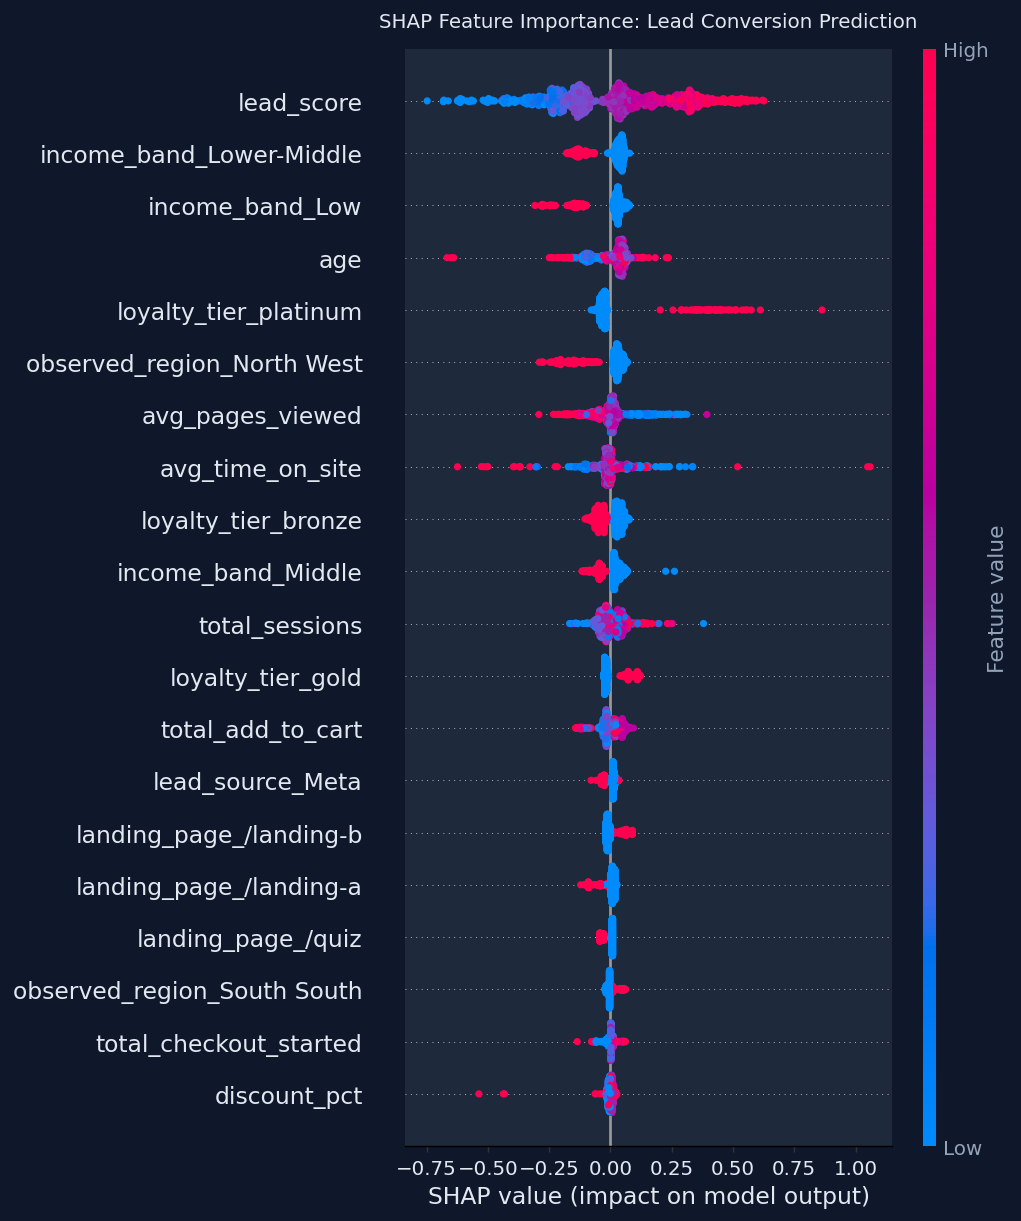
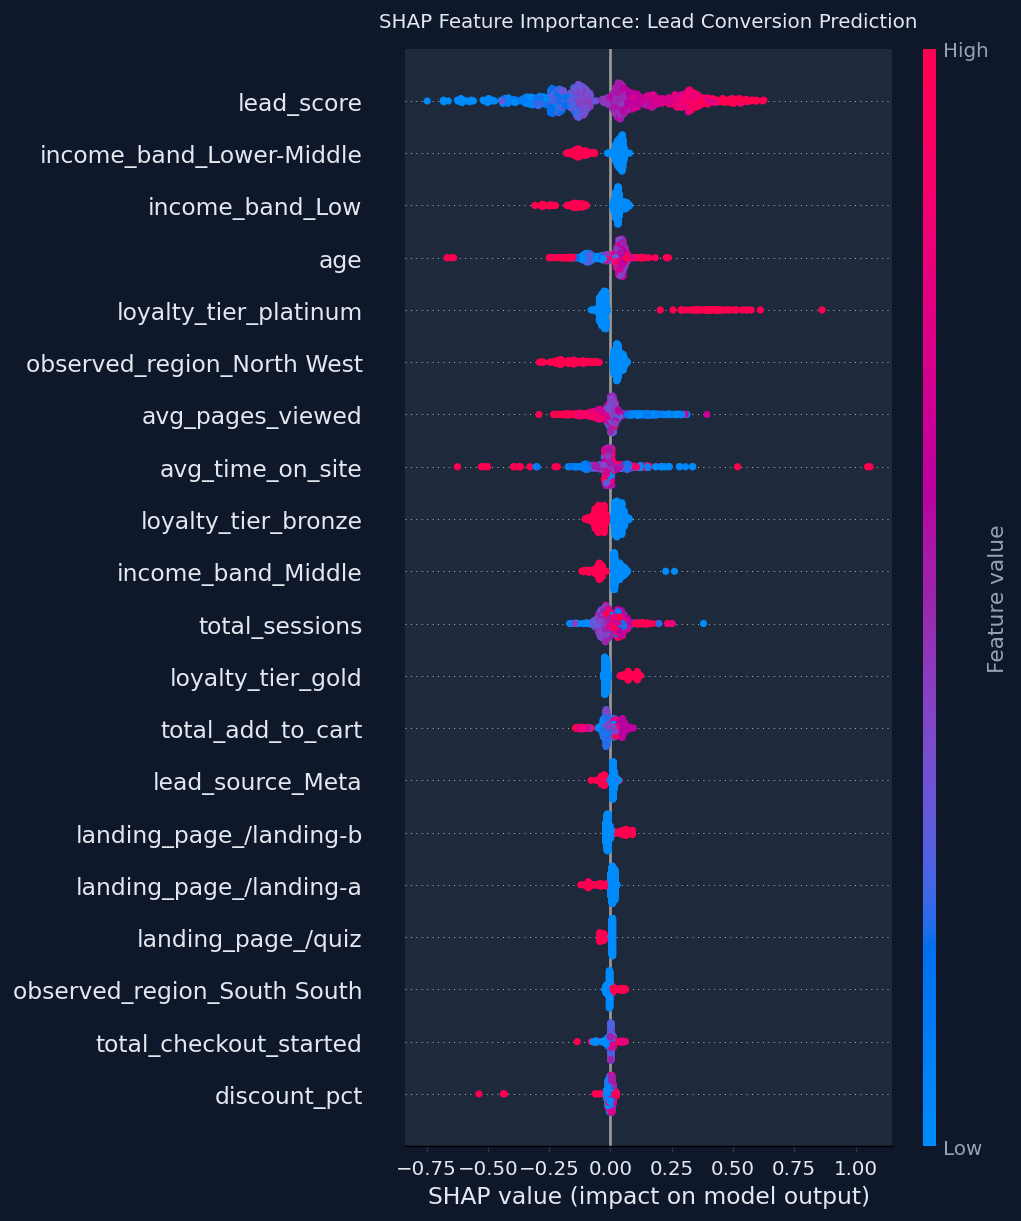
full pipeline run: synchronize all analytical reports

diff --git a/main.py b/main.py
@@ -13,7 +13,7 @@ def run_script(script_name):
 
 def main():
     parser = argparse.ArgumentParser(description="NovaMart Marketing Analytics Capstone Runner")
-    parser.add_argument("--phase", type=int, choices=range(1, 8), help="Run a specific phase (1-7)")
+    parser.add_argument("--phase", type=int, choices=range(1, 9), help="Run a specific phase (1-8)")
     args = parser.parse_args()
 
     phases = {